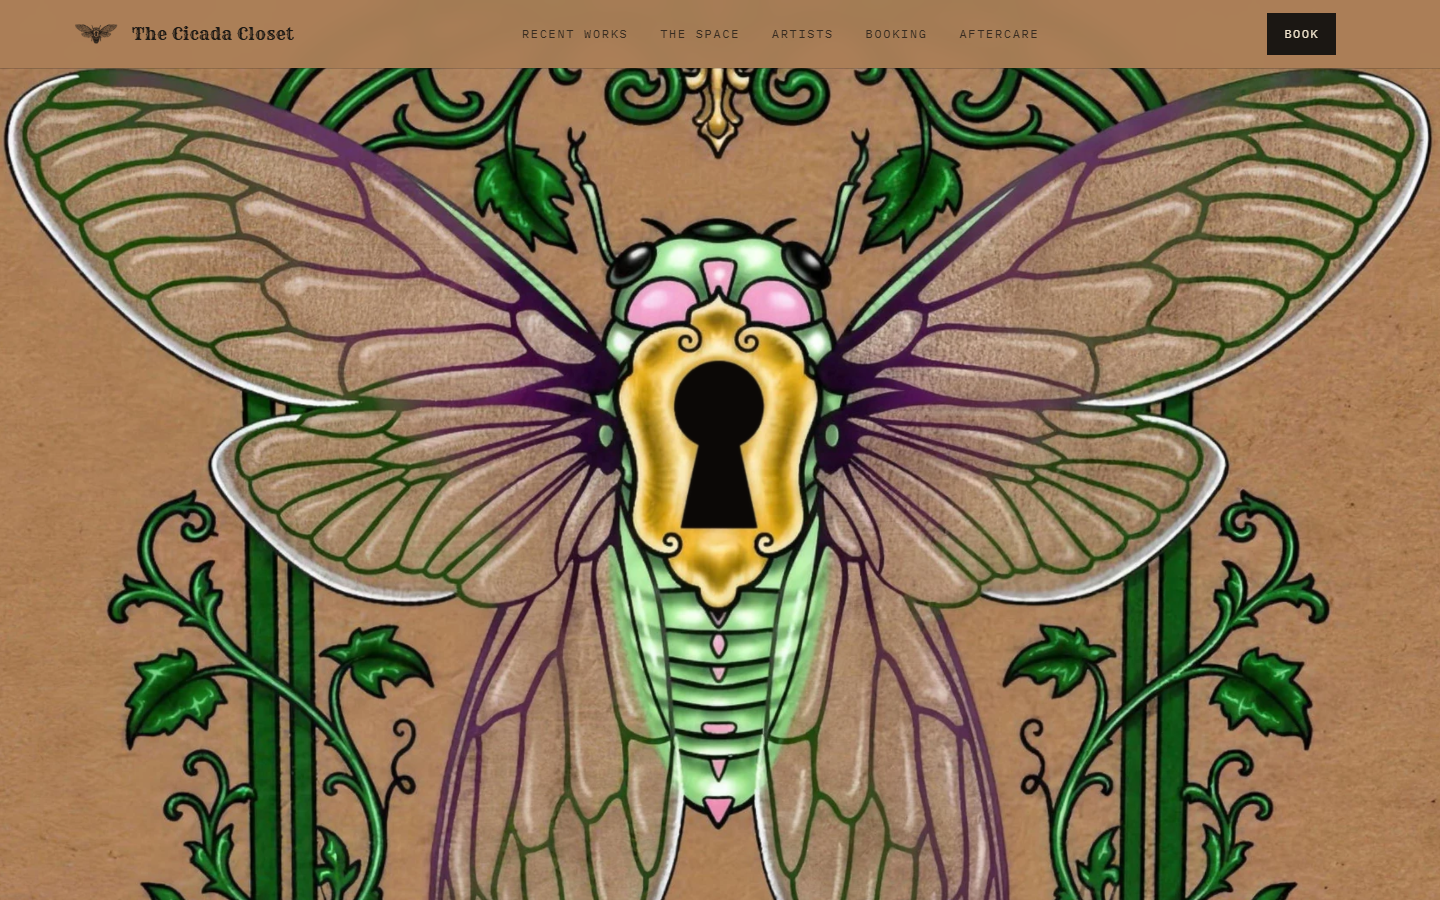
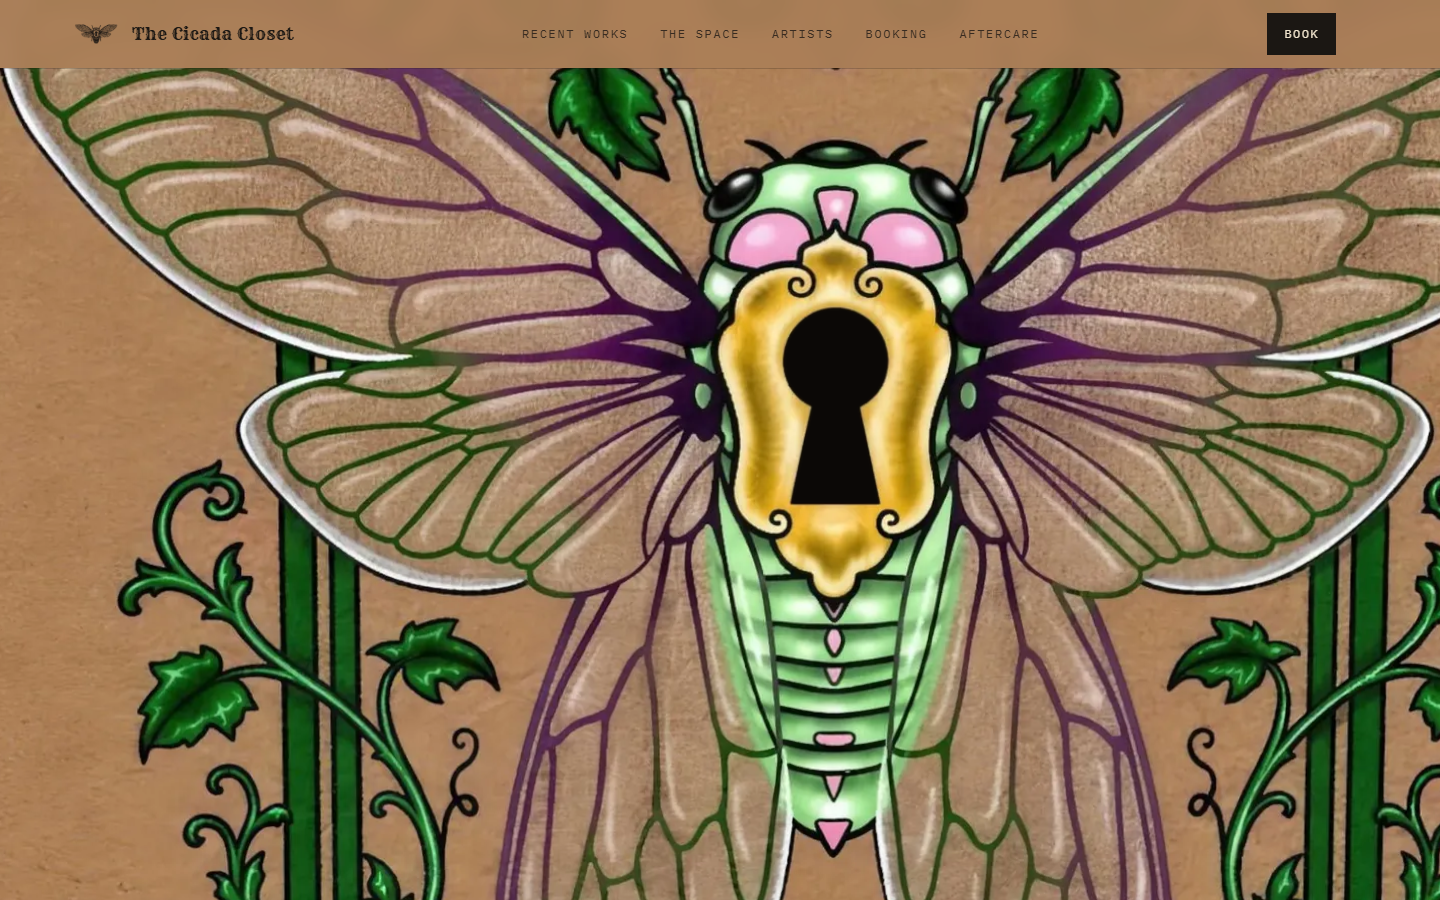
Round 3b (LOCAL ONLY, not deployed): desktop + mobile optimised
First paint phone 4518 -> 1641 KB, desktop 5506 -> 1590 KB (uncompressed, cache off):
seamless 1024 kraft tile replaces the 4K plate (1398 -> 113 KB), logo textures recompressed
q80 (4K 975 KB, 2K 474 KB), the mismatched 2K preload removed, gallery plates deferred to an
IntersectionObserver. Compression verified by header: Pages gzips, cdnjs serves three.js as
135 KB brotli.

Wide screens: hero copy becomes a left column and the sheet fills the right. A square logo
and a stacked headline cannot both fit a wide viewport -- camera tweaks only traded
ornament-under-headline for lettering-off-the-bottom. Rest offsets ease out by e=0.68 so
the camera passes through the keyhole dead centre. Phone layout unchanged.

diff --git a/site/film/index.html b/site/film/index.html
@@ -9,7 +9,6 @@
 <meta property="og:title" content="The Cicada Closet · Norman, OK">
 <meta property="og:image" content="../assets/hero-logo.jpg">
 <link rel="icon" type="image/png" href="../assets/cicada-mark.png">
-<link rel="preload" as="image" href="../assets/logo-3d-2k.webp" fetchpriority="high">
 <link rel="preconnect" href="https://fonts.googleapis.com">
 <link rel="stylesheet" href="https://fonts.googleapis.com/css2?family=Rye&family=Libre+Caslon+Text:ital,wght@0,400;0,700;1,400&family=IBM+Plex+Mono:wght@400;500&display=swap">
 <script type="application/ld+json">
@@ -232,7 +231,7 @@ body::before{display:none}
 .film{position:relative;height:340vh}
 .chapter{display:none!important}
 .stage{position:sticky;top:0;height:100vh;overflow:hidden;background:#ab7e56}
-.stage .wood{position:absolute;inset:0;background:#ab7e56 url(../assets/hero-kraft.jpg) center/cover no-repeat}
+.stage .wood{position:absolute;inset:0;background:#ab7e56 url(../assets/kraft-tile.jpg) repeat;background-size:512px 512px}
 .stage #stage3d{position:absolute;inset:0;pointer-events:none}
 .stage #stage3d canvas{display:block;width:100%!important;height:100%!important}
 .grain{position:absolute;inset:0;pointer-events:none;opacity:.14;mix-blend-mode:overlay;
@@ -255,6 +254,14 @@ body::before{display:none}
 .beat.hero .eyebrow{margin-bottom:10px}
 .beat.hero p:not(.eyebrow){font-size:clamp(15px,1.5vw,19px);margin-top:10px;text-wrap:balance}
 @media (max-width:480px){.beat.hero .eyebrow{font-size:10px;letter-spacing:.07em}.beat.hero p:not(.eyebrow){font-size:14.5px}}
+/* wide screens: copy in a left column beside the sheet, not stacked over it */
+@media (min-width:960px) and (min-aspect-ratio:5/4){
+  .beat.hero{top:0;bottom:0;display:grid;align-content:center;right:auto;width:min(36vw,520px);text-align:left;padding-top:68px}
+  .beat.hero h2{font-size:clamp(34px,3.7vw,56px);line-height:1.02}
+  .beat.hero p:not(.eyebrow){font-size:clamp(16px,1.25vw,19px);max-width:34ch;margin-top:14px}
+  .beat.hero .eyebrow{margin-bottom:14px;font-size:11px;letter-spacing:.11em}
+  .hint{right:auto;left:var(--gutter)}   /* under the copy, off the artwork */
+}
 .beat.hero.dark{color:var(--ink)}
 .beat.hero.dark h2,.beat.hero.dark p{text-shadow:none}
 .beat.hero.dark .eyebrow{color:var(--rust)}
@@ -317,7 +324,7 @@ body::before{display:none}
   <div class="film" id="film">
     <div class="stage">
       <div class="wood"></div>
-      <div id="stage3d" data-tex4k="../assets/logo-3d-4k.webp" data-tex2k="../assets/logo-3d-2k.webp" data-kraft="../assets/hero-kraft.jpg"
+      <div id="stage3d" data-tex4k="../assets/logo-3d-4k.webp" data-tex2k="../assets/logo-3d-2k.webp" data-kraft="../assets/kraft-tile.jpg"
            role="img" aria-label="The Cicada Closet logo: an art-nouveau cicada with a golden keyhole at its centre, framed in green vines"></div>
       <div class="grain" id="grain" hidden></div><div class="vig" id="vig" hidden></div>
       <div class="beat hero dark" id="heroBeat" data-in="-0.1" data-peak="0" data-out="0.16">
@@ -521,13 +528,19 @@ body::before{display:none}
   addEventListener('resize', () => { measure(); draw(progress()); });
 
   // ---- Recent Works: curated from works.json — add/remove/reorder pieces there, no code changes
-  fetch('works.json').then(r => r.ok ? r.json() : null).then(j => {
+  const loadWorks = () => fetch('works.json').then(r => r.ok ? r.json() : null).then(j => {
     if (!j || !Array.isArray(j.works) || !j.works.length) return;
     const esc = s => String(s == null ? '' : s).replace(/&/g, '&amp;').replace(/</g, '&lt;').replace(/"/g, '&quot;');
     document.getElementById('plates').innerHTML = j.works.map(w =>
       `<button class="plate tall" data-full="${esc(w.image)}" data-cap="${esc(w.caption || w.title)}"><figure><div class="img"><img src="${esc(w.image)}" alt="${esc(w.alt || w.title)}" loading="lazy"></div><figcaption><b>${esc(w.title)}</b><span>${esc(w.tag)}</span></figcaption></figure></button>`
     ).join('');
   }).catch(() => {});
+  // the hero must own the first paint: the gallery's plates load when the visitor nears them
+  const workSec = document.getElementById('work');
+  if ('IntersectionObserver' in window && workSec){
+    const io = new IntersectionObserver((es) => { if (es.some(e => e.isIntersecting)){ io.disconnect(); loadWorks(); } }, { rootMargin: '900px 0px' });
+    io.observe(workSec);
+  } else loadWorks();
 
   // ---- lightbox
   const lb = document.getElementById('lb'), lbi = document.getElementById('lbi'), lbc = document.getElementById('lbc');

diff --git a/film/hero3d.js b/film/hero3d.js
@@ -79,7 +79,7 @@
   loader.load(host.dataset.kraft, (t) => {
     t.colorSpace = THREE.SRGBColorSpace;
     t.wrapS = t.wrapT = THREE.RepeatWrapping;
-    t.repeat.set(3, 3);
+    t.repeat.set(16, 16);              // a 1024 seamless tile, not a 4K plate: 12x lighter, same grain
     field.material.map = t;
     field.material.color.set(0xffffff);
     field.material.needsUpdate = true;
@@ -92,10 +92,18 @@
 
   function frame(p) {
     const e = prefersReduced ? 0 : Math.pow(p, 0.88);
-    // the camera starts back far enough to hold the whole sheet, then flies through the keyhole
-    const z = 4.35 - e * 5.05;
-    camera.position.set(0, aimY * (1 - e * 0.15), z);
-    camera.lookAt(0, aimY, -1);
+    // the camera starts back far enough to hold the whole sheet, then flies through the keyhole;
+    // wide screens start closer, or the sheet sits small in a sea of paper
+    const z = restZ - e * (restZ + 0.70);
+    // at rest the view is lifted so the sheet sits below the headline instead of under it;
+    // the lift eases out, and by the keyhole the camera is aimed dead on it
+    // rest offsets are gone by two-thirds of the way in, so the camera passes through the
+    // keyhole dead centre instead of still drifting across as it arrives
+    const k = Math.pow(Math.max(0, 1 - e / 0.68), 1.5);
+    const lift = restLift * k;
+    const side = restShift * k;            // wide screens: the sheet rests beside the text, then centres
+    camera.position.set(-side, aimY * (1 - e * 0.15) + lift, z);
+    camera.lookAt(-side, aimY + lift, -1);
     // the sheet leans back a touch at rest and squares up as you arrive
     paper.rotation.x = (1 - e) * 0.085;
     field.rotation.x = paper.rotation.x;
@@ -103,8 +111,20 @@
     renderer.render(scene, camera);
   }
 
+  let restZ = 4.35, restLift = 0, restShift = 0;
   function resize() {
     camera.aspect = innerWidth / innerHeight;
+    // The camera aims at the keyhole, which sits ABOVE the sheet's centre, so with no lift the
+    // sheet hangs low. Wide screens are height-bound by a square logo under a headline: pull
+    // back enough for the whole sheet, and aim a little below the keyhole so it rises to sit
+    // centred beneath the text. A positive lift here pushed the lettering off the bottom.
+    // Wide: the headline moves to a left column (see .beat.hero in the page CSS), so the sheet
+    // can take the full height on the right. Stacking text over a square logo on a wide screen
+    // means either the ornament goes under the headline or the lettering goes off the bottom.
+    const wide = camera.aspect >= 1.25, mid = camera.aspect >= 0.85;
+    restZ     = wide ? 3.80  : mid ? 4.05  : 4.35;
+    restLift  = wide ? -0.30 : mid ? -0.12 : 0.08;
+    restShift = wide ? 0.95  : 0;
     // hold the whole sheet on tall screens, where a fixed fov would crop it
     camera.fov = innerWidth / innerHeight < 0.85 ? 58 : 42;
     camera.updateProjectionMatrix();

diff --git a/site/film/hero3d.js b/site/film/hero3d.js
@@ -79,7 +79,7 @@
   loader.load(host.dataset.kraft, (t) => {
     t.colorSpace = THREE.SRGBColorSpace;
     t.wrapS = t.wrapT = THREE.RepeatWrapping;
-    t.repeat.set(3, 3);
+    t.repeat.set(16, 16);              // a 1024 seamless tile, not a 4K plate: 12x lighter, same grain
     field.material.map = t;
     field.material.color.set(0xffffff);
     field.material.needsUpdate = true;
@@ -92,10 +92,18 @@
 
   function frame(p) {
     const e = prefersReduced ? 0 : Math.pow(p, 0.88);
-    // the camera starts back far enough to hold the whole sheet, then flies through the keyhole
-    const z = 4.35 - e * 5.05;
-    camera.position.set(0, aimY * (1 - e * 0.15), z);
-    camera.lookAt(0, aimY, -1);
+    // the camera starts back far enough to hold the whole sheet, then flies through the keyhole;
+    // wide screens start closer, or the sheet sits small in a sea of paper
+    const z = restZ - e * (restZ + 0.70);
+    // at rest the view is lifted so the sheet sits below the headline instead of under it;
+    // the lift eases out, and by the keyhole the camera is aimed dead on it
+    // rest offsets are gone by two-thirds of the way in, so the camera passes through the
+    // keyhole dead centre instead of still drifting across as it arrives
+    const k = Math.pow(Math.max(0, 1 - e / 0.68), 1.5);
+    const lift = restLift * k;
+    const side = restShift * k;            // wide screens: the sheet rests beside the text, then centres
+    camera.position.set(-side, aimY * (1 - e * 0.15) + lift, z);
+    camera.lookAt(-side, aimY + lift, -1);
     // the sheet leans back a touch at rest and squares up as you arrive
     paper.rotation.x = (1 - e) * 0.085;
     field.rotation.x = paper.rotation.x;
@@ -103,8 +111,20 @@
     renderer.render(scene, camera);
   }
 
+  let restZ = 4.35, restLift = 0, restShift = 0;
   function resize() {
     camera.aspect = innerWidth / innerHeight;
+    // The camera aims at the keyhole, which sits ABOVE the sheet's centre, so with no lift the
+    // sheet hangs low. Wide screens are height-bound by a square logo under a headline: pull
+    // back enough for the whole sheet, and aim a little below the keyhole so it rises to sit
+    // centred beneath the text. A positive lift here pushed the lettering off the bottom.
+    // Wide: the headline moves to a left column (see .beat.hero in the page CSS), so the sheet
+    // can take the full height on the right. Stacking text over a square logo on a wide screen
+    // means either the ornament goes under the headline or the lettering goes off the bottom.
+    const wide = camera.aspect >= 1.25, mid = camera.aspect >= 0.85;
+    restZ     = wide ? 3.80  : mid ? 4.05  : 4.35;
+    restLift  = wide ? -0.30 : mid ? -0.12 : 0.08;
+    restShift = wide ? 0.95  : 0;
     // hold the whole sheet on tall screens, where a fixed fov would crop it
     camera.fov = innerWidth / innerHeight < 0.85 ? 58 : 42;
     camera.updateProjectionMatrix();

diff --git a/tier2/hero3d.js b/tier2/hero3d.js
@@ -79,7 +79,7 @@
   loader.load(host.dataset.kraft, (t) => {
     t.colorSpace = THREE.SRGBColorSpace;
     t.wrapS = t.wrapT = THREE.RepeatWrapping;
-    t.repeat.set(3, 3);
+    t.repeat.set(16, 16);              // a 1024 seamless tile, not a 4K plate: 12x lighter, same grain
     field.material.map = t;
     field.material.color.set(0xffffff);
     field.material.needsUpdate = true;
@@ -92,10 +92,18 @@
 
   function frame(p) {
     const e = prefersReduced ? 0 : Math.pow(p, 0.88);
-    // the camera starts back far enough to hold the whole sheet, then flies through the keyhole
-    const z = 4.35 - e * 5.05;
-    camera.position.set(0, aimY * (1 - e * 0.15), z);
-    camera.lookAt(0, aimY, -1);
+    // the camera starts back far enough to hold the whole sheet, then flies through the keyhole;
+    // wide screens start closer, or the sheet sits small in a sea of paper
+    const z = restZ - e * (restZ + 0.70);
+    // at rest the view is lifted so the sheet sits below the headline instead of under it;
+    // the lift eases out, and by the keyhole the camera is aimed dead on it
+    // rest offsets are gone by two-thirds of the way in, so the camera passes through the
+    // keyhole dead centre instead of still drifting across as it arrives
+    const k = Math.pow(Math.max(0, 1 - e / 0.68), 1.5);
+    const lift = restLift * k;
+    const side = restShift * k;            // wide screens: the sheet rests beside the text, then centres
+    camera.position.set(-side, aimY * (1 - e * 0.15) + lift, z);
+    camera.lookAt(-side, aimY + lift, -1);
     // the sheet leans back a touch at rest and squares up as you arrive
     paper.rotation.x = (1 - e) * 0.085;
     field.rotation.x = paper.rotation.x;
@@ -103,8 +111,20 @@
     renderer.render(scene, camera);
   }
 
+  let restZ = 4.35, restLift = 0, restShift = 0;
   function resize() {
     camera.aspect = innerWidth / innerHeight;
+    // The camera aims at the keyhole, which sits ABOVE the sheet's centre, so with no lift the
+    // sheet hangs low. Wide screens are height-bound by a square logo under a headline: pull
+    // back enough for the whole sheet, and aim a little below the keyhole so it rises to sit
+    // centred beneath the text. A positive lift here pushed the lettering off the bottom.
+    // Wide: the headline moves to a left column (see .beat.hero in the page CSS), so the sheet
+    // can take the full height on the right. Stacking text over a square logo on a wide screen
+    // means either the ornament goes under the headline or the lettering goes off the bottom.
+    const wide = camera.aspect >= 1.25, mid = camera.aspect >= 0.85;
+    restZ     = wide ? 3.80  : mid ? 4.05  : 4.35;
+    restLift  = wide ? -0.30 : mid ? -0.12 : 0.08;
+    restShift = wide ? 0.95  : 0;
     // hold the whole sheet on tall screens, where a fixed fov would crop it
     camera.fov = innerWidth / innerHeight < 0.85 ? 58 : 42;
     camera.updateProjectionMatrix();

diff --git a/film/measure.js b/film/measure.js
@@ -1,0 +1,59 @@
+// node film/measure.js <url>  — transfer weight and frame cost for the hero, phone + desktop.
+// Headless GL is software (swiftshader), so frame times are a RELATIVE signal only; the byte
+// counts are exact.
+const puppeteer = require('C:/Users/Circl/.claude/skills/scroll-film-studio/node_modules/puppeteer-core');
+const url = process.argv[2];
+const wait = ms => new Promise(r => setTimeout(r, ms));
+
+(async () => {
+  const b = await puppeteer.launch({
+    executablePath: 'C:\\Program Files\\Google\\Chrome\\Application\\chrome.exe',
+    headless: 'new',
+    args: ['--hide-scrollbars', '--use-gl=angle', '--use-angle=swiftshader', '--enable-unsafe-swiftshader']
+  });
+  for (const dev of [{ n: 'phone', w: 390, h: 844, dpr: 2 }, { n: 'desktop', w: 1440, h: 900, dpr: 1 }]) {
+    const p = await b.newPage();
+    await p.setCacheEnabled(false);
+    await p.setViewport({ width: dev.w, height: dev.h, deviceScaleFactor: dev.dpr });
+    const seen = new Map();
+    p.on('response', async (r) => {
+      try {
+        const len = (await r.buffer()).length;
+        const u = r.url().split('/').pop().split('?')[0] || r.url();
+        seen.set(u, (seen.get(u) || 0) + len);
+      } catch (e) { /* redirects etc. */ }
+    });
+    const t0 = Date.now();
+    await p.goto(url + '?jump=0', { waitUntil: 'networkidle0', timeout: 90000 });
+    await p.waitForFunction('window.__hero3d && window.__hero3d.isReady()', { timeout: 60000 }).catch(() => {});
+    const loadMs = Date.now() - t0;
+    await wait(900);
+    // what the visitor actually pays before anything moves
+    const firstPaint = [...seen.values()].reduce((a, b) => a + b, 0);
+
+    // frame cost across the push
+    const fps = await p.evaluate(async () => {
+      const film = document.getElementById('film');
+      const max = film.offsetHeight - innerHeight;
+      const d = [];
+      let last = performance.now();
+      for (let i = 0; i <= 40; i++) {
+        scrollTo(0, Math.round(max * (i / 40)));
+        await new Promise(r => requestAnimationFrame(r));
+        const now = performance.now();
+        if (i) d.push(now - last);
+        last = now;
+      }
+      d.sort((a, b) => a - b);
+      return { median: +d[Math.floor(d.length / 2)].toFixed(1), p95: +d[Math.floor(d.length * 0.95)].toFixed(1) };
+    });
+
+    const rows = [...seen.entries()].sort((a, b) => b[1] - a[1]);
+    const total = rows.reduce((s, r) => s + r[1], 0);
+    console.log(`
+${dev.n}  FIRST PAINT ${(firstPaint / 1024).toFixed(0)} KB   after full push ${(total / 1024).toFixed(0)} KB   load ${loadMs} ms   frame median ${fps.median}ms p95 ${fps.p95}ms (software GL, relative only)`);
+    for (const [u, n] of rows.slice(0, 6)) console.log(`   ${(n / 1024).toFixed(0).padStart(6)} KB  ${u}`);
+    await p.close();
+  }
+  await b.close();
+})();

diff --git a/film/build_opt.py b/film/build_opt.py
@@ -1,0 +1,69 @@
+"""Optimised hero assets.
+
+The first 3D build shipped a 3840x2160 kraft plate (1.4 MB) for what is, visually, paper
+grain -- and paper grain repeats perfectly. So the field becomes a small SEAMLESS tile
+instead. Seamless matters: an ordinary Gaussian blur is not periodic and leaves a visible
+grid, so the grain is filtered in the frequency domain, which wraps by construction.
+
+Her logo textures are recompressed: the 4K carries the detail that keeps the keyhole sharp
+at the end of the push, so it stays 4096, just at a sane quality.
+
+Usage: python film/build_opt.py
+"""
+import os
+
+import numpy as np
+from PIL import Image
+
+HERE = os.path.dirname(os.path.abspath(__file__))
+ROOT = os.path.dirname(HERE)
+TILE = 1024
+SEED = 11
+
+
+def periodic_grain(n, sigma, rng):
+    """Gaussian-filtered noise that tiles: filtering in frequency space wraps by construction."""
+    w = rng.normal(0, 1, (n, n))
+    fy = np.fft.fftfreq(n)[:, None]
+    fx = np.fft.fftfreq(n)[None, :]
+    k = np.exp(-2.0 * (np.pi * sigma) ** 2 * (fx ** 2 + fy ** 2))
+    g = np.real(np.fft.ifft2(np.fft.fft2(w) * k))
+    return (g - g.mean()) / (g.std() + 1e-9)
+
+
+def main():
+    lg = np.asarray(Image.open(os.path.join(HERE, "logo_new.webp")).convert("RGB")).astype(float)
+    lh, lw, _ = lg.shape
+    corners = np.concatenate([lg[0:90, 0:90].reshape(-1, 3), lg[0:90, lw - 90:].reshape(-1, 3),
+                              lg[lh - 90:, 0:90].reshape(-1, 3), lg[lh - 90:, lw - 90:].reshape(-1, 3)])
+    tone, spread = corners.mean(0), corners.std(0).mean()
+
+    rng = np.random.default_rng(SEED)
+    field = 1.0 + (periodic_grain(TILE, 0.7, rng) * 0.72
+                   + periodic_grain(TILE, 4.0, rng) * 0.38) * (spread / 255.0) * 1.35
+    tile = Image.fromarray(np.clip(field[..., None] * tone, 0, 255).astype(np.uint8))
+    for folder in ("tier1/assets", "tier2/assets"):
+        tile.save(os.path.join(ROOT, folder, "kraft-tile.jpg"), quality=86, optimize=True)
+
+    # seam check: the right edge against the left, and the bottom against the top
+    a = np.asarray(tile).astype(int)
+    seam_x = np.abs(a[:, -1] - a[:, 0]).mean()
+    seam_y = np.abs(a[-1, :] - a[0, :]).mean()
+    interior = np.abs(a[:, 1:] - a[:, :-1]).mean()
+
+    src = Image.open(os.path.join(ROOT, "tier2/assets/logo-3d-4k.webp")).convert("RGBA")
+    for name, size, q in (("logo-3d-4k.webp", 4096, 80), ("logo-3d-2k.webp", 2048, 80)):
+        im = src if src.size[0] == size else src.resize((size, size), Image.LANCZOS)
+        for folder in ("tier1/assets", "tier2/assets"):
+            im.save(os.path.join(ROOT, folder, name), quality=q, method=6)
+
+    def kb(f):
+        return os.path.getsize(os.path.join(ROOT, "tier2/assets", f)) // 1024
+
+    print(f"kraft-tile.jpg   {TILE}x{TILE}  {kb('kraft-tile.jpg')} KB   (was hero-kraft.jpg 1398 KB)")
+    print(f"  seam: edge diff x {seam_x:.2f} y {seam_y:.2f} vs interior {interior:.2f}  (<= interior = invisible)")
+    print(f"logo-3d-4k.webp  {kb('logo-3d-4k.webp')} KB     logo-3d-2k.webp  {kb('logo-3d-2k.webp')} KB")
+
+
+if __name__ == "__main__":
+    main()

diff --git a/STATE.md b/STATE.md
@@ -26,6 +26,34 @@
 - Mobile pass done at 375x812: letterboxed logo start looks right, sections stack, overflowX 0.
 - tier1 got a `.statement` ink band under its hero (text off the logo) — moot while /classic/ is internal.
 
+## 09-20 ROUND 3b — DESKTOP + MOBILE OPTIMISED (current local build, **NOT DEPLOYED**)
+Measured with `node film/measure.js <url>` (puppeteer, cache OFF, software GL). First paint:
+**phone 4518 -> 1641 KB, desktop 5506 -> 1590 KB**, before compression. Real transfer is lower still:
+GitHub Pages gzips (verified: film/ index served `content-encoding: gzip`) and cdnjs serves
+three.min.js as **135 KB brotli** (verified by header), not the 654 KB the local server shows.
+- `assets/kraft-tile.jpg` 1024x1024 **seamless** (113 KB) replaces the 3840x2160 plate (1398 KB).
+  Seamless by construction: grain filtered in the frequency domain (`film/build_opt.py`), edge diff
+  1.94 vs interior 1.97. Used by `.stage .wood` (repeat, 512px) and as the 3D field (repeat 16).
+- Logo textures recompressed q80: 4K 975 KB (was 1653), 2K 474 KB (was 831). 4K stays 4096 --
+  it is what keeps the keyhole sharp at the end of the push.
+- The `<link rel=preload>` for the 2K is GONE: it fetched the 2K even when the page then chose the
+  4K (retina desktops), pure waste.
+- Gallery plates now load via IntersectionObserver (`loadWorks`, rootMargin 900px) instead of on
+  first paint -- six full plates were riding along with the hero.
+
+**Wide-screen layout (>=960px and aspect >=5/4): the hero copy is a LEFT COLUMN, the sheet fills
+the right.** On a wide screen a square logo and a stacked headline cannot both fit: every camera
+tweak traded ornament-under-headline for lettering-off-the-bottom (both happened). `restShift`
+in hero3d.js parks the sheet beside the copy at rest; `restZ/restLift/restShift` per aspect band;
+all rest offsets ease out by e=0.68 (`k` in frame()) so the camera passes through the keyhole
+dead centre. `.hint` moves under the copy on wide screens so it never touches the artwork.
+
+⚠ Measurement traps, so the numbers are read right: (1) cache-off double-counts anything fetched
+twice (kraft-tile shows 228 = 2x113); (2) the frame-cost loop scrolls the whole push, which pulls
+the gallery into IntersectionObserver range -- hence FIRST PAINT is reported separately from
+"after full push"; (3) headless GL is swiftshader, so frame times are relative only, never quote
+them as device performance.
+
 ## 09-20 ROUND 3 — 4K + REAL 3D HERO (current local build, **NOT DEPLOYED**)
 Circle: "make the image 4k, and now we are going to render it with 3d". Credits topped up to 529.
 
